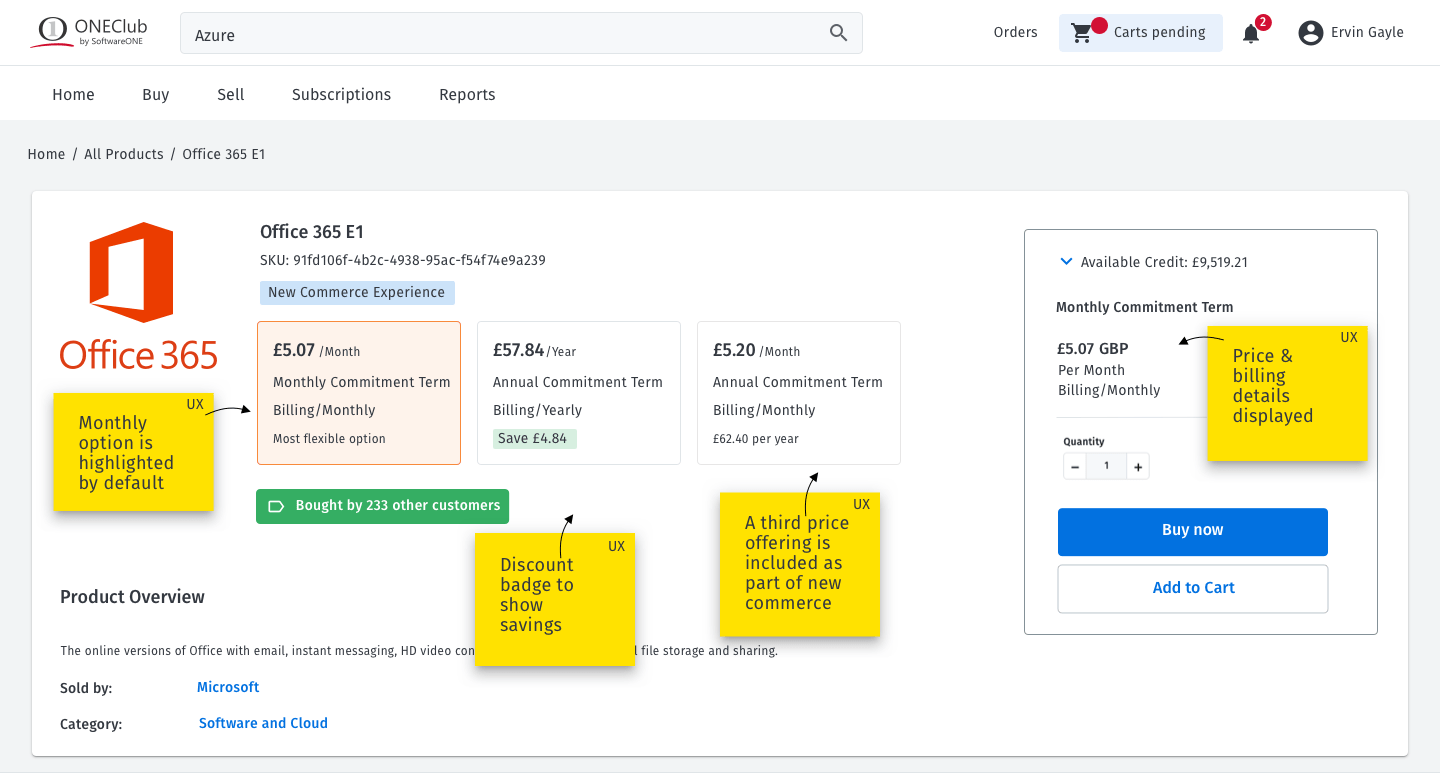
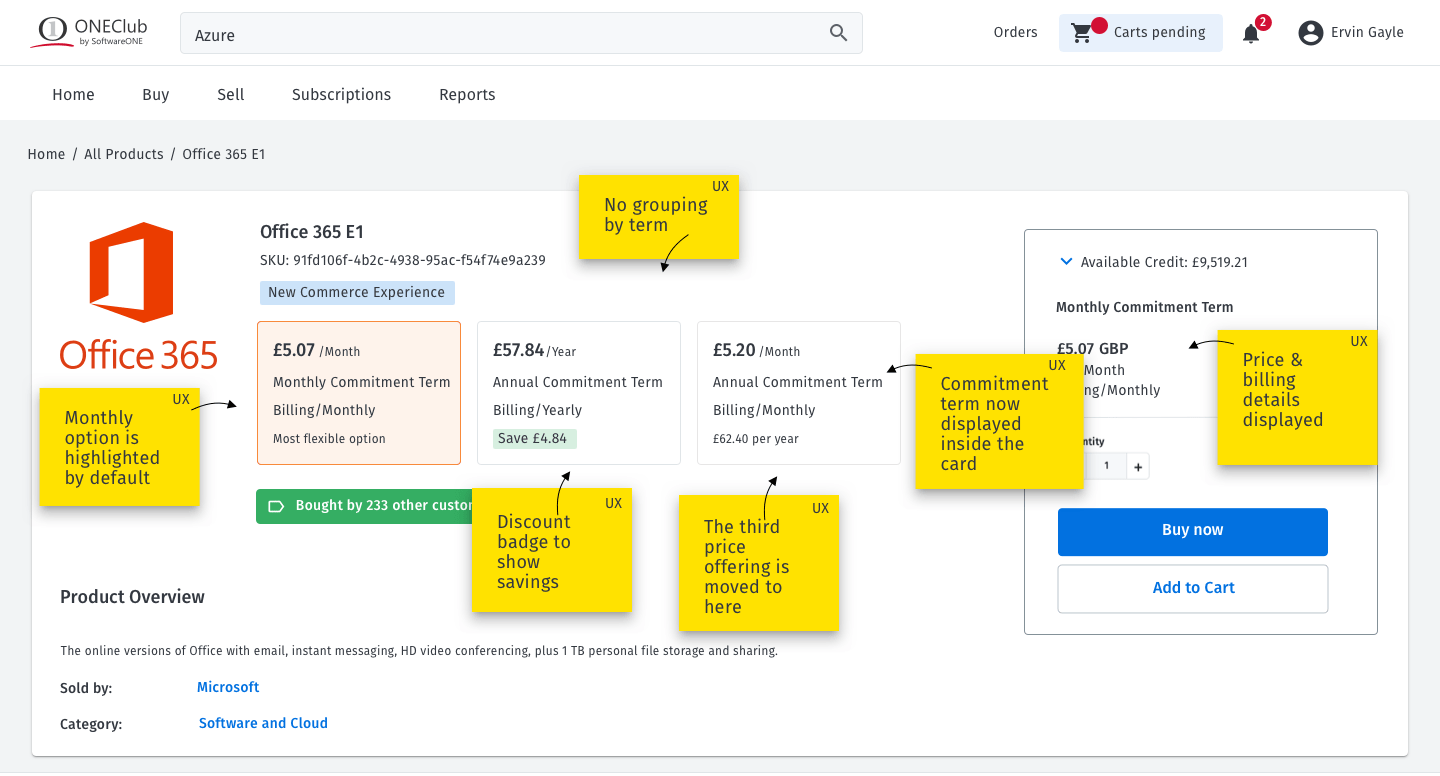
updating product detail cards

diff --git a/NCE.html b/NCE.html
@@ -206,7 +206,6 @@ experience. The project was undertaken from February-June 2022, in conjunction w
 
 
             <div class="row">
-             
                     <div class="col-xs-12">
                       <h3 class="number-subheading ">
                         Legacy Product Detail </h3>
@@ -229,17 +228,45 @@ experience. The project was undertaken from February-June 2022, in conjunction w
                                   <div class="col-xs-12">
                                     <h3 class="number-subheading ">
                                      New Commerce Product Detail </h3>
+                                        </div>
+                                      </div>
+
+                                      <div class="row">
+                                        <div class="col-xs-12">
+                                     <p class="portfolio-detail-body">
+        
+                                    The thrid buying option was introduced into the product detail card. This lead to a complete redesign of this page.
+                                    The user journey would now take the user from the product list into the product detail where all three buying options would be displayed.
+                                    Initially the purchasing offerings were grouped by the commitment term, being either monthly or annual. 
+                                    The additional billing options were then displayed. This approach was tested with users in the business and was felt to be too complex, so was not chosen as a final design proposal.
+                                                 </p>
+                                                 </div>
+                                                 </div>
+        
+                                                 <div class="row">     
+                                                  <div class="col-xs-12 col-sm-12 col-md-12 col-lg-12  image-padding">
+                                                    <h2 class="retro-sub-heading2">
+                                                    Design Iteration</h2>
+                                                 <img src="assets/images/ProductDetail_Card_Iteration1-min.png" style="background-color:#FFF; " class="img-responsive" alt="product card">
+                                                                </div>
+                                                    </div> <!-- close row-->
+        
+                                   <div class="row">  
+                                    <div class="col-xs-12">
+                                      <h2 class="retro-sub-heading2">
+                                       Final Design</h2>
                                     <p class="portfolio-detail-body">
-As there would now be a third buying option for new commerce this needed to be included in the product detail page. This lead to a complete redesign of this page.
-The user journey would now take the user from the product list into the product detail where all three buying options would be displayed. As a default the monthly commitment and 
-billing is highlighted but a savings badge was introduced for the yearly billing and annual commitment offering to show the user the savings they could make 
-if they purchased this option.
+                                      In a refined design the commitment term is included in each offering and not grouped as before. Another row was also added to the cards to show particular 
+                                      information for that offering such as savings or flexibility.
+                                      As a default the monthly commitment and 
+                                      billing offering was highlighted but a savings badge was introduced for the yearly billing and annual commitment offering to show the user the savings they could make 
+                                      if they purchased this option.
                                </p>
                                </div>
                                </div> <!--close row -->
-        
-        
-        
+
+
+
         
         
         
